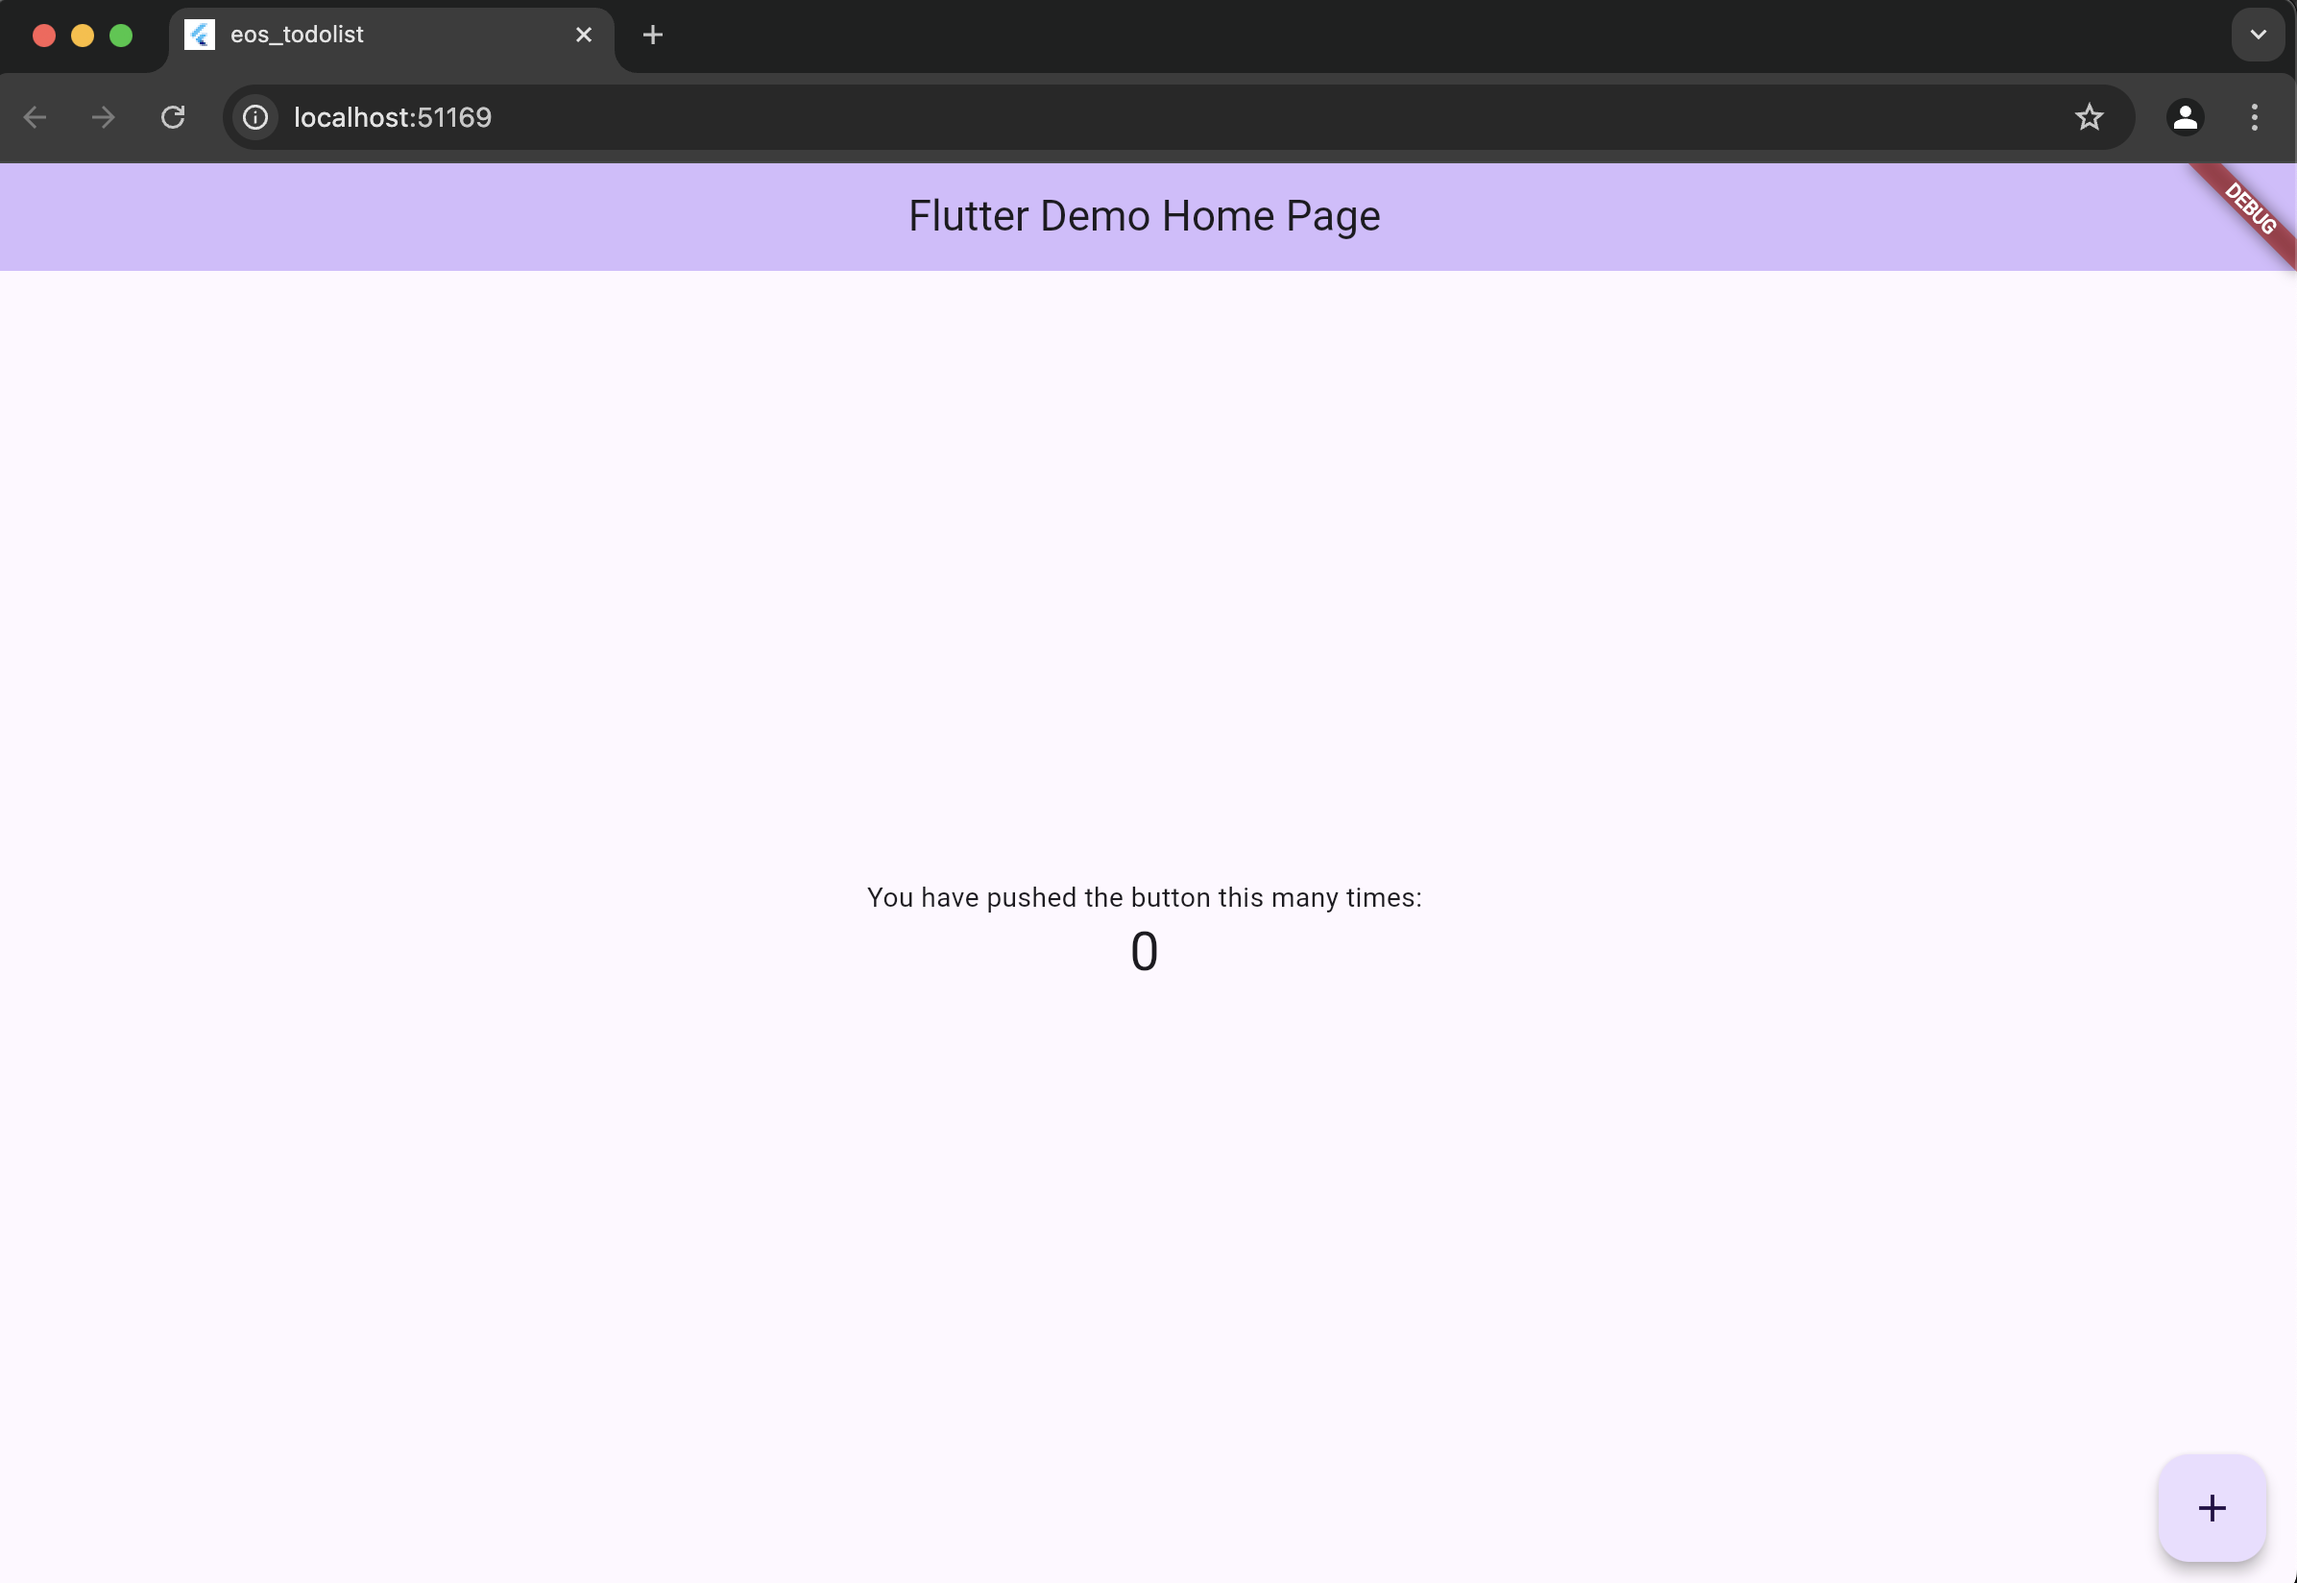
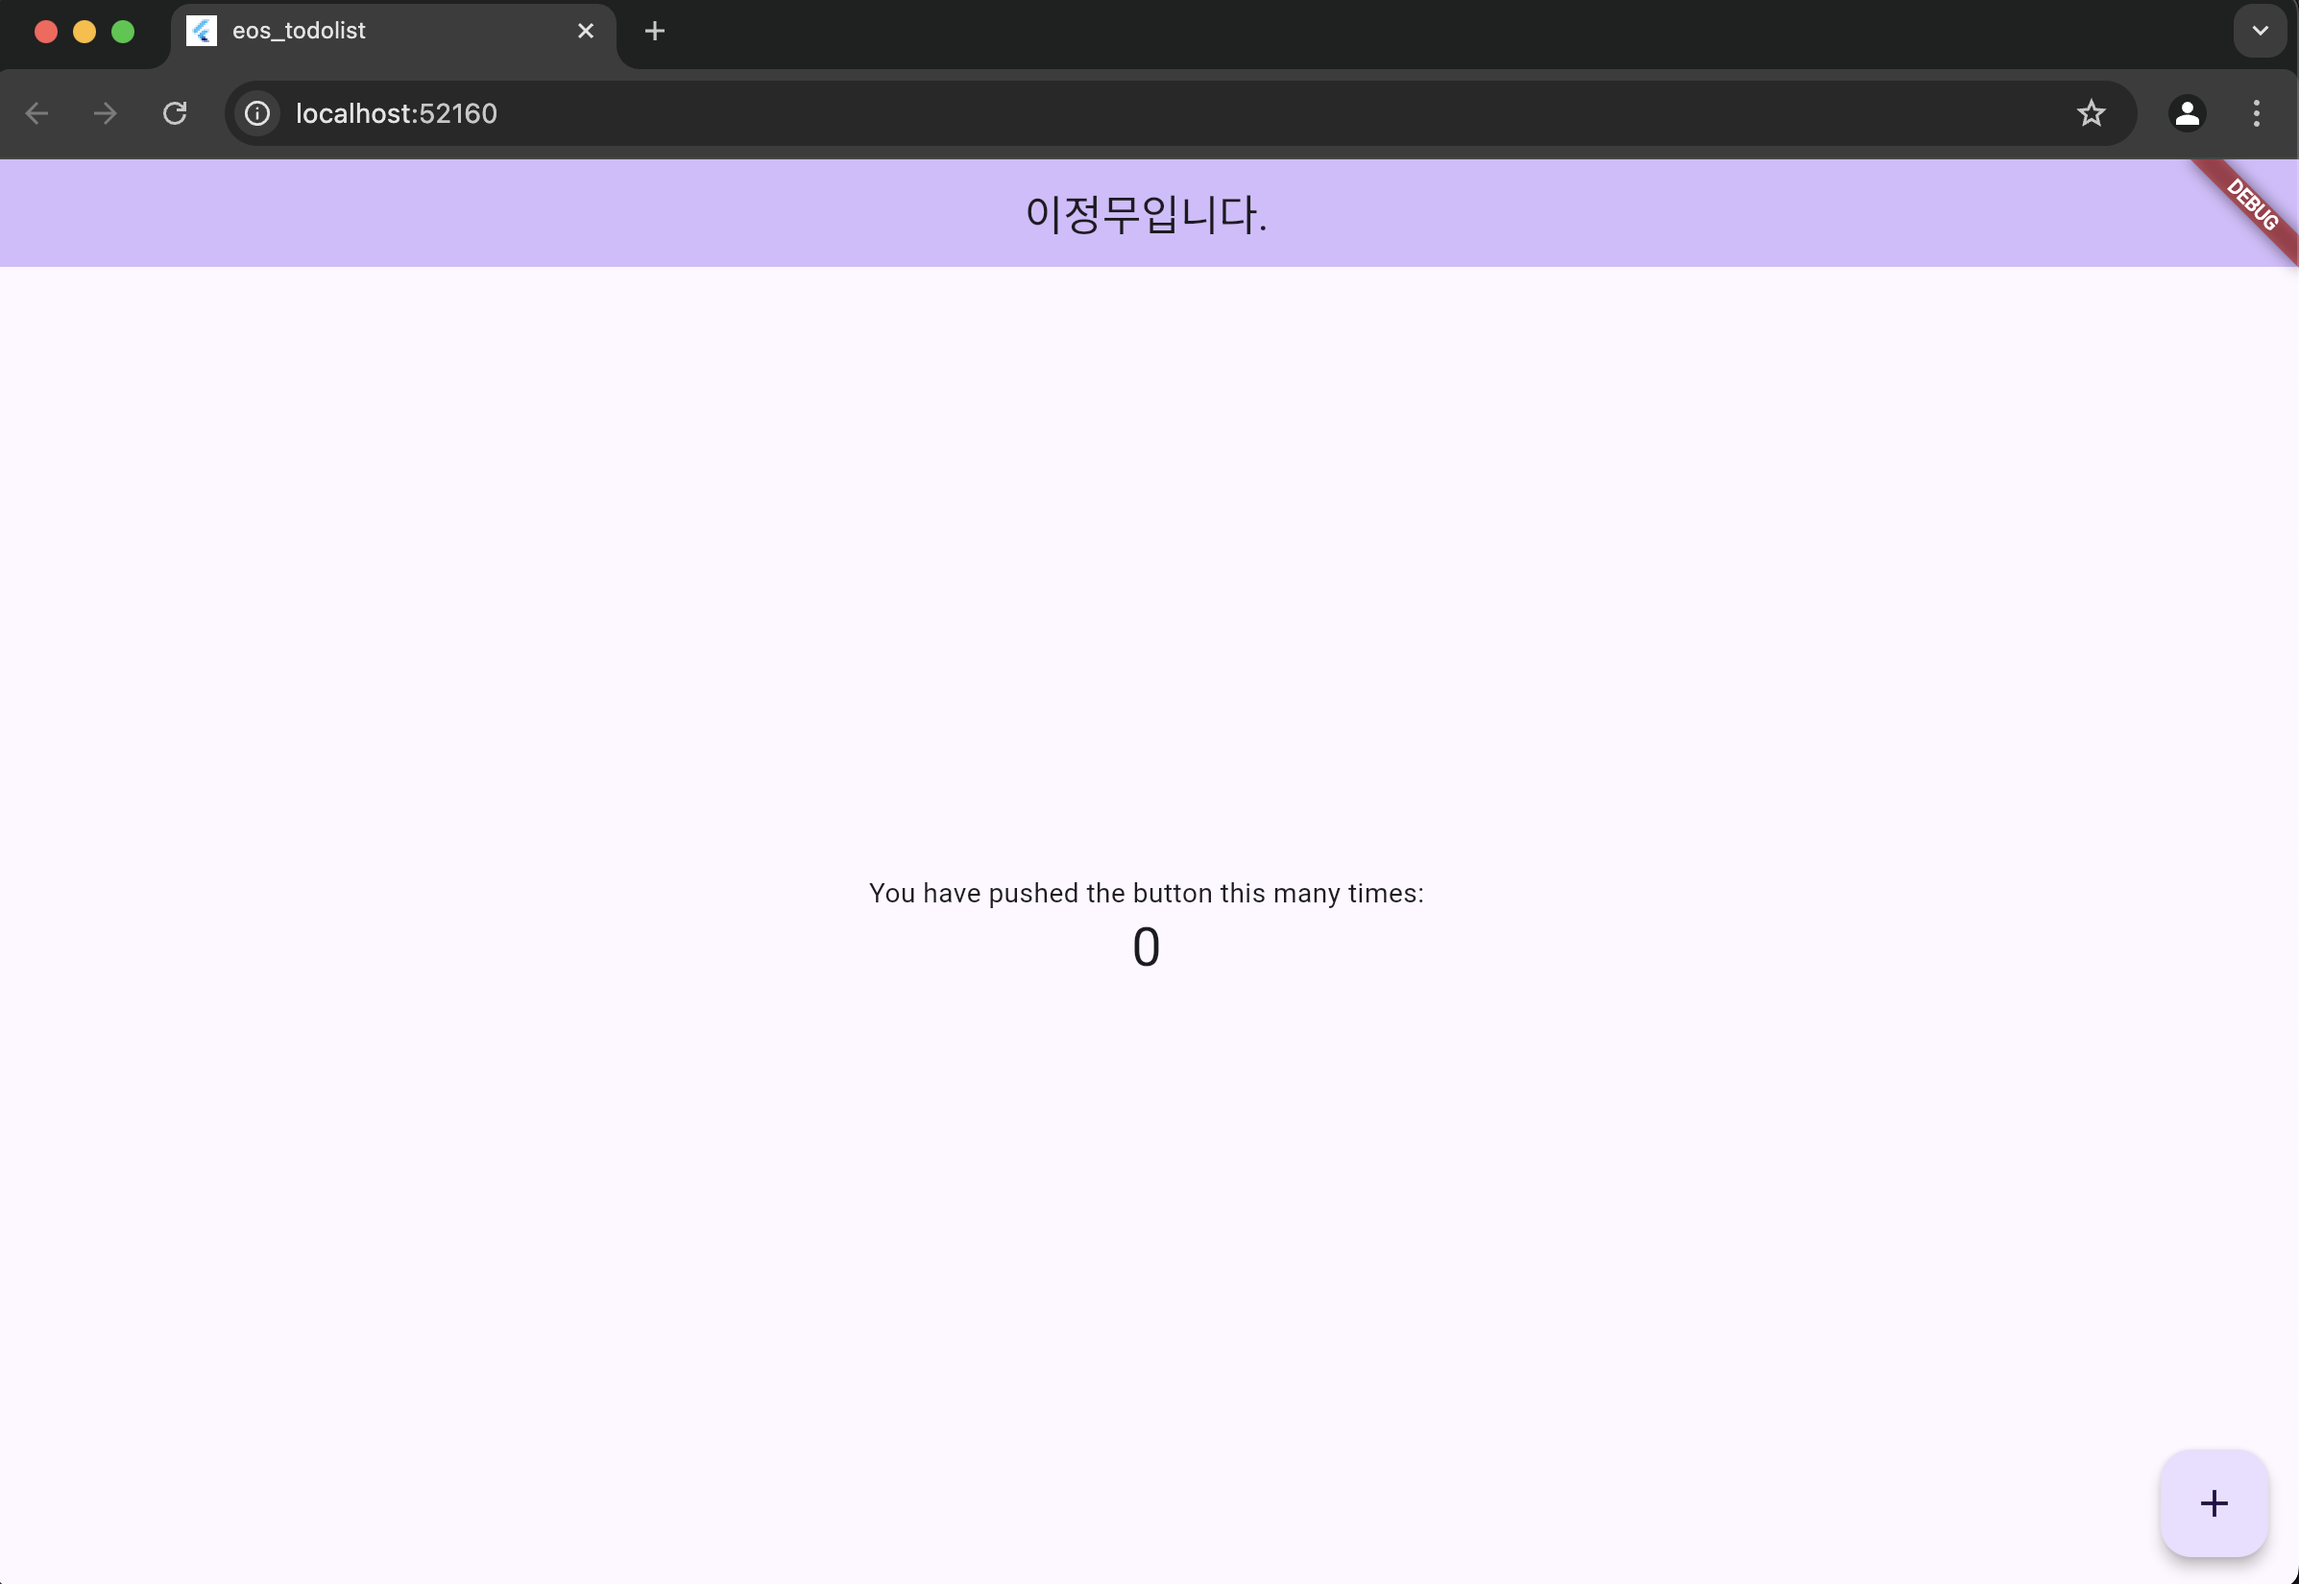
jngmu

diff --git a/lib/main.dart b/lib/main.dart
@@ -31,7 +31,7 @@ class MyApp extends StatelessWidget {
         colorScheme: ColorScheme.fromSeed(seedColor: Colors.deepPurple),
         useMaterial3: true,
       ),
-      home: const MyHomePage(title: 'Flutter Demo Home Page'),
+      home: const MyHomePage(title: '이정무입니다.'),
     );
   }
 }
